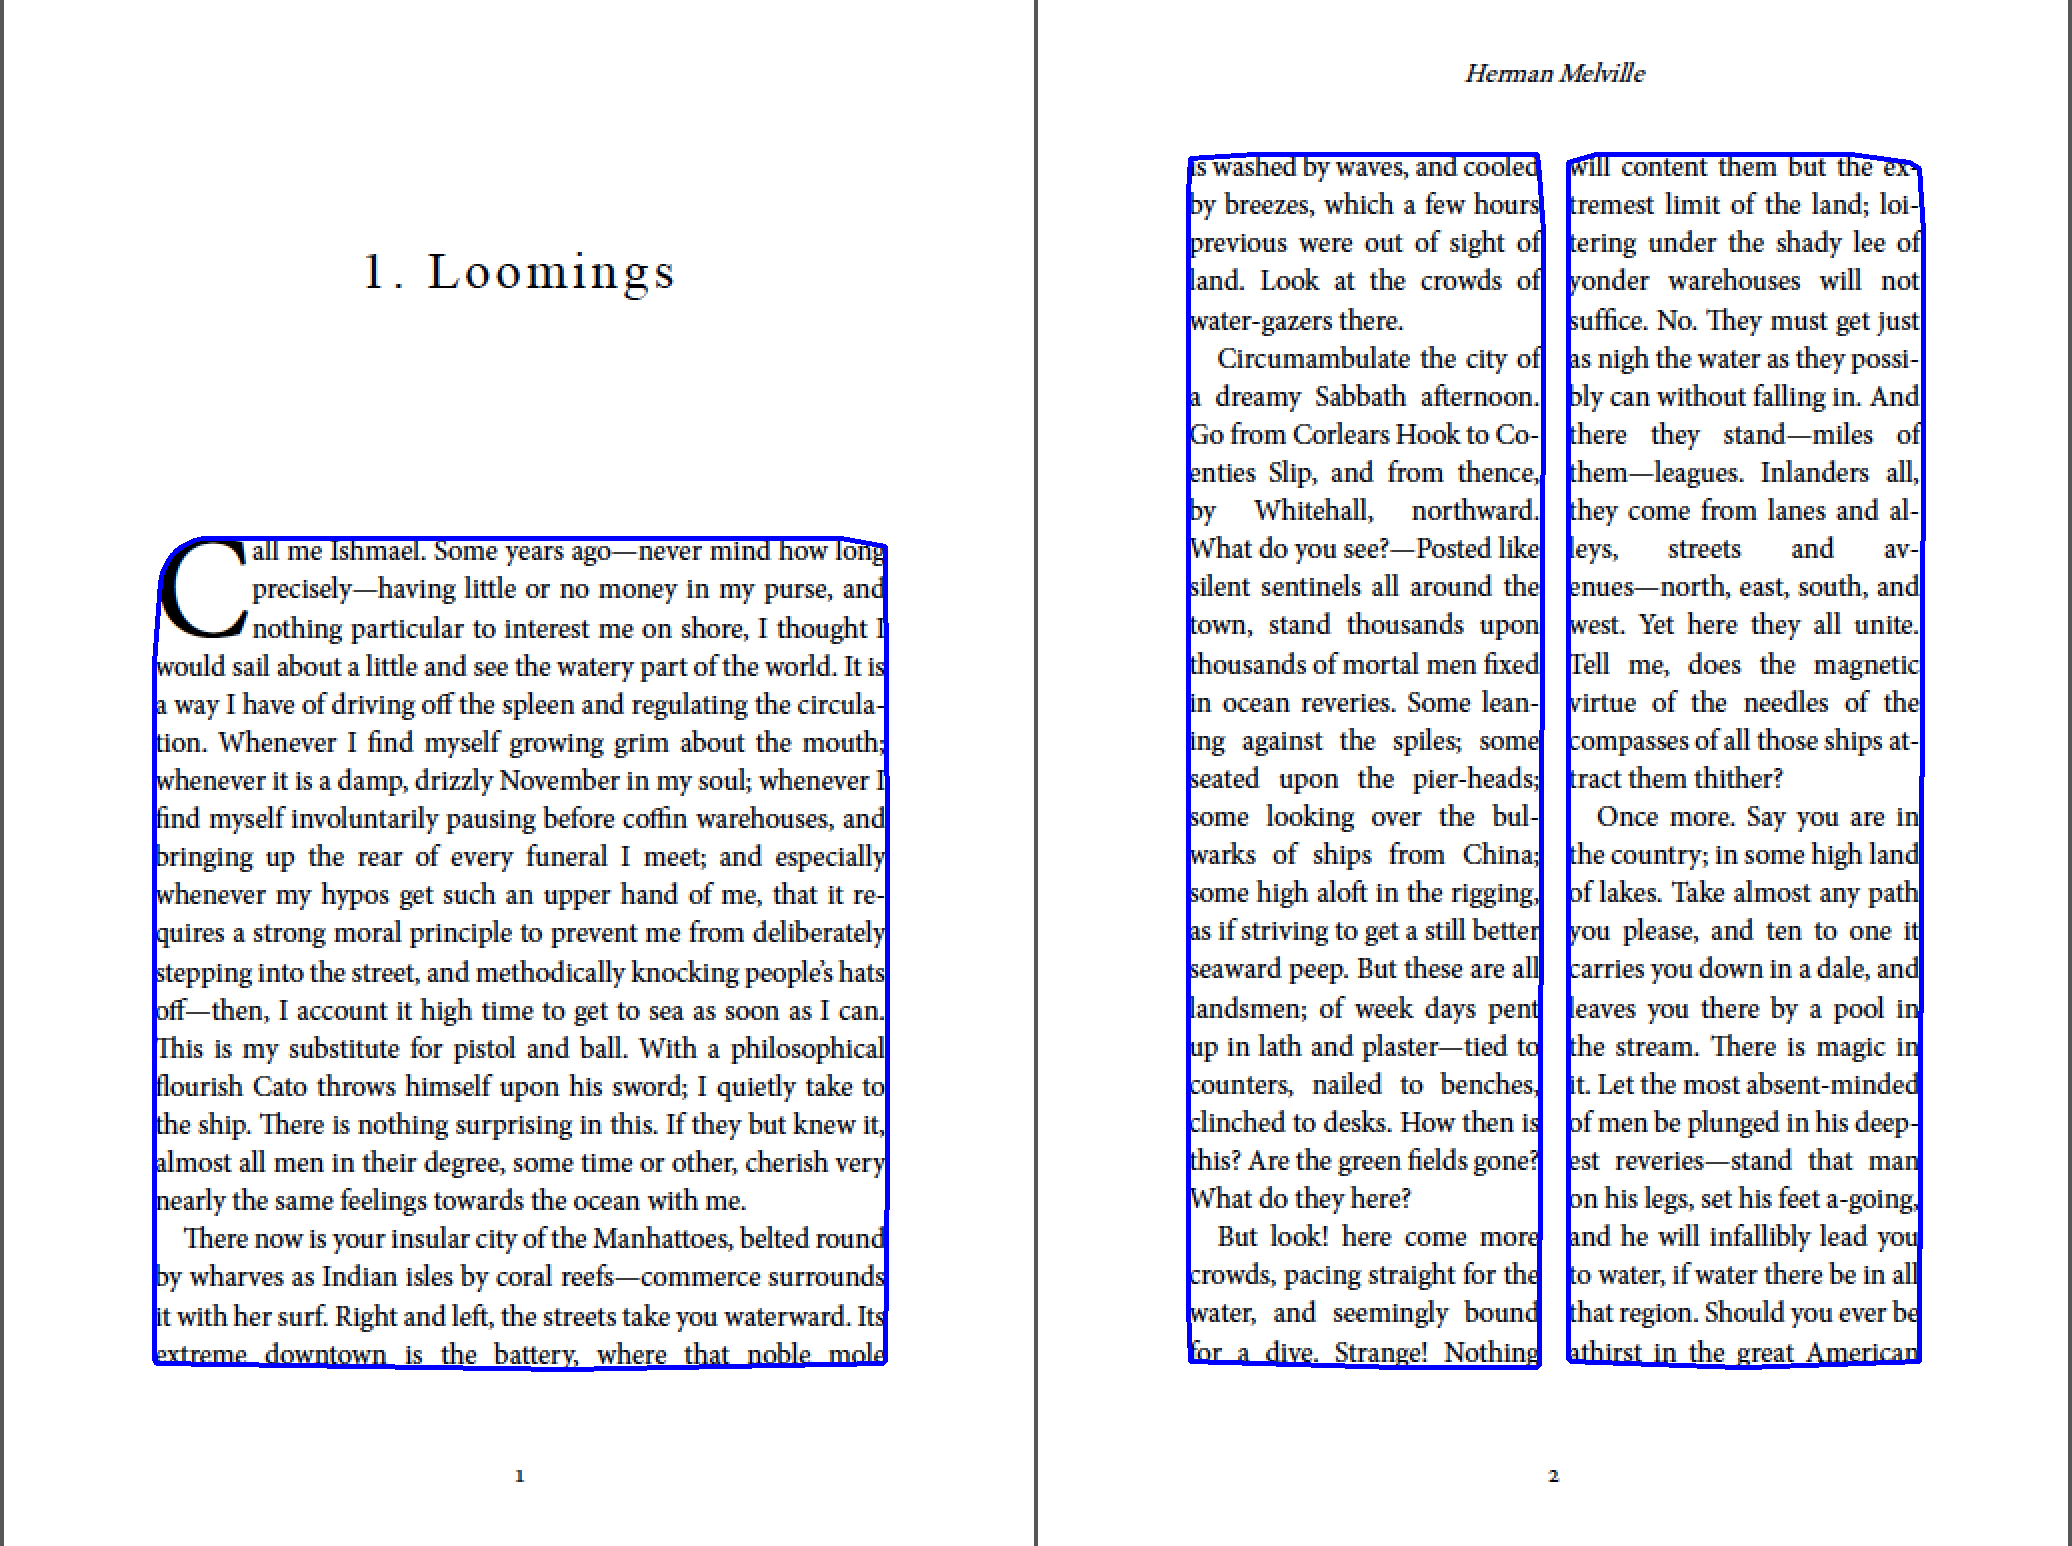
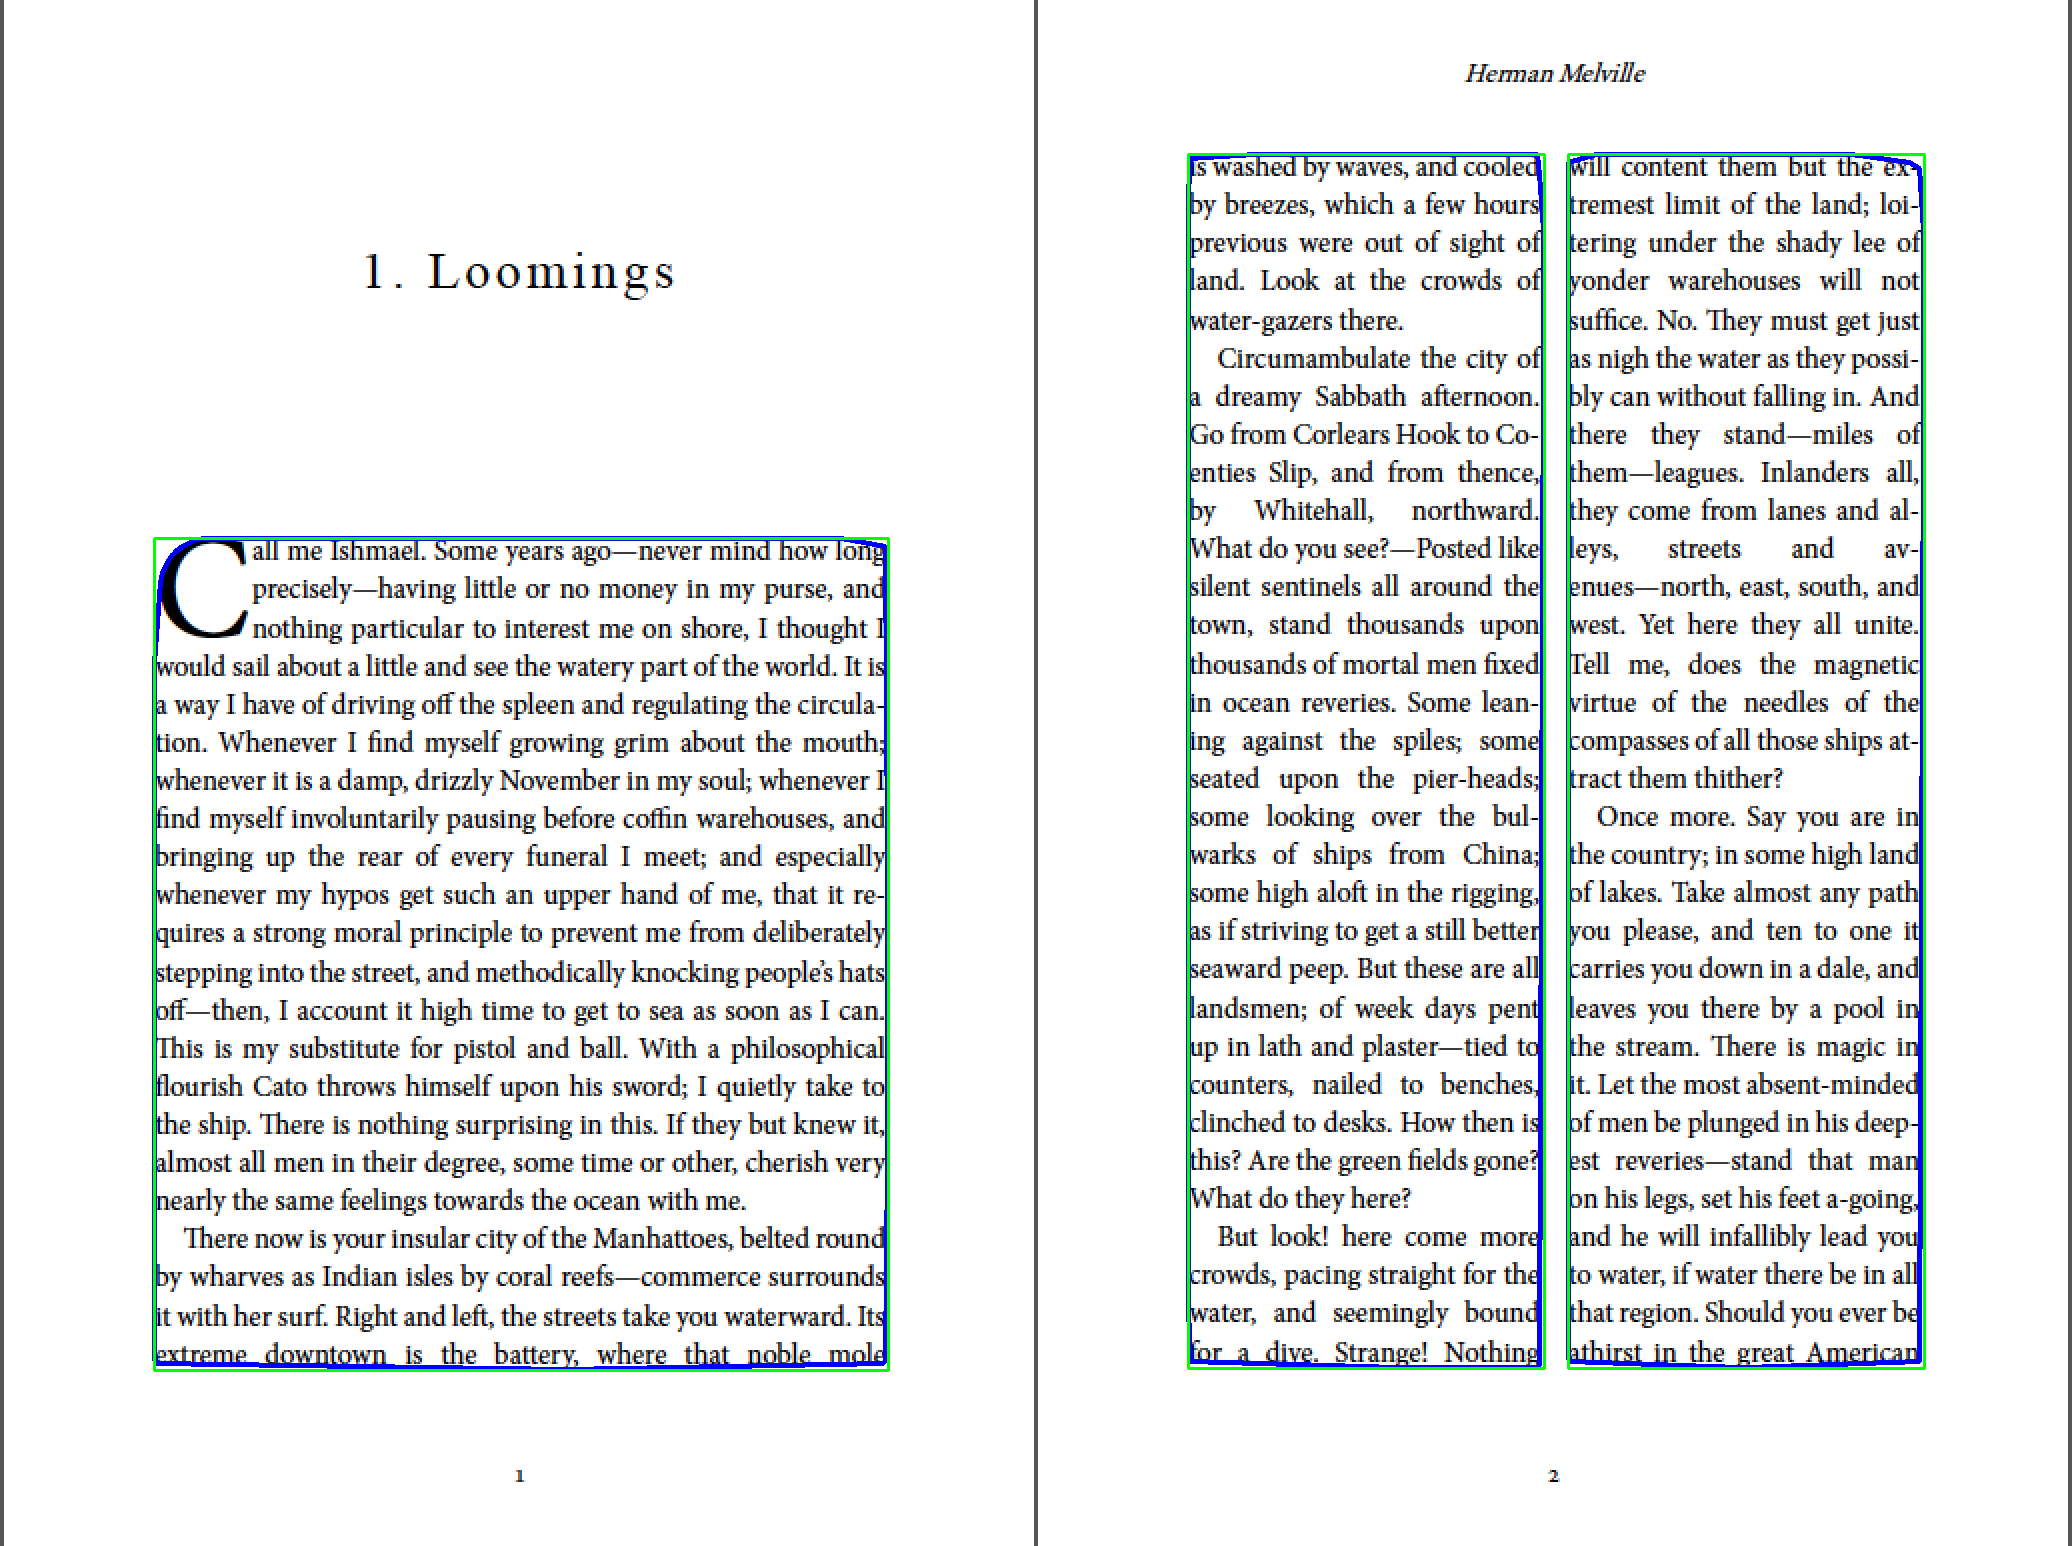
made a lot of changes

Changed region(s): [[0.7413, 0.0931, 0.7722, 0.1242]]

diff --git a/cv_textreader/cv_textreader.py b/cv_textreader/cv_textreader.py
@@ -67,6 +67,8 @@
 
 import cv2
 import sys
+import os
+import pytesseract 
 
 SCALE = 4
 AREA_THRESHOLD = 427505.0 / 2
@@ -80,6 +82,7 @@ def show_scaled(name, img):
 
 def main():
     img = cv2.imread("CSzyw.png")
+    # img = cv2.imread("test2.jpg")
     print("Hello World")
     img = img[10:-10, 10:-10] # remove the border, it confuses contour detection
     gray = cv2.cvtColor(img, cv2.COLOR_BGR2GRAY)
@@ -104,12 +107,31 @@ def main():
     # show_scaled("closing", closing)
 
     for contour in contours:
+        print('contour')
         convex_contour = cv2.convexHull(contour)
         area = cv2.contourArea(convex_contour)
         if area > AREA_THRESHOLD:
             cv2.drawContours(img, [convex_contour], -1, (255,0,0), 3)
+            x, y, w, h = cv2.boundingRect(contour) 
+	
+# 	# Drawing a rectangle on copied image 
+            rect = cv2.rectangle(img, (x, y), (x + w, y + h), (0, 255, 0), 2) 
+	
+# 	# Cropping the text block for giving input to OCR 
+            cropped = img[y:y + h, x:x + w] 
+            file = open("recognized.txt", "a") 
+	
+	        # Apply OCR on the cropped image 
+            text = pytesseract.image_to_string(cropped) 
+	
+	        # Appending the text into file 
+            file.write(text) 
+            file.write("\n") 
+	
+            # Close the file 
+            file.close 
 
-    # show_scaled("contours", img)
+            # show_scaled("contours", img)
     cv2.imwrite("contours.png", img)
     cv2.waitKey()
 
